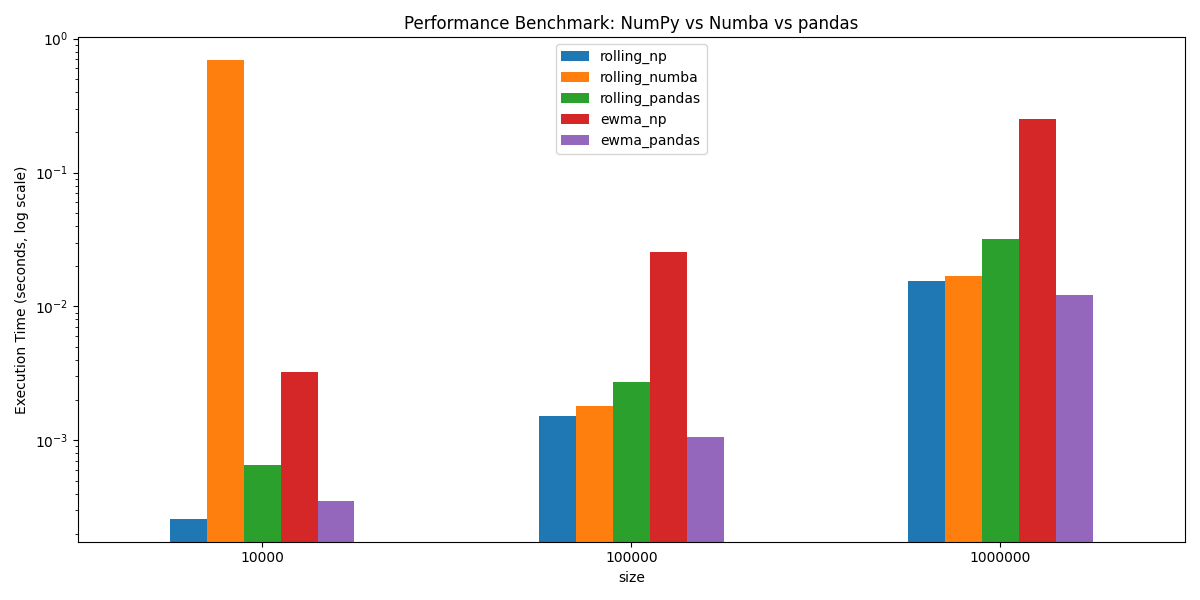
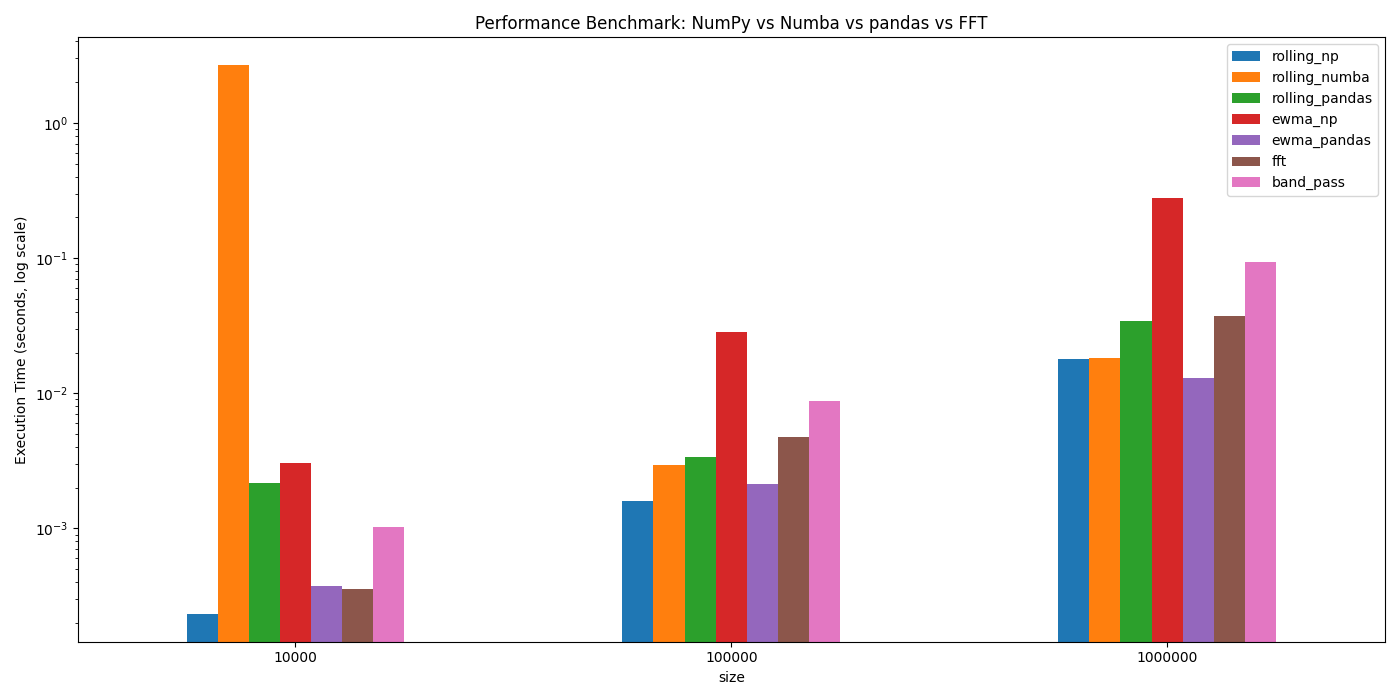
updated Task 3

diff --git a/Task3/benchmark.py b/Task3/benchmark.py
@@ -2,6 +2,7 @@ import time
 import numpy as np
 import pandas as pd
 import matplotlib.pyplot as plt
+
 from timeseries_utils import (
     rolling_mean_np, rolling_mean_numba, rolling_stats_pandas,
     ewma_np, ewma_pandas,
@@ -27,6 +28,9 @@ def run_benchmarks():
         data = generate_data(size)
         window = 50
         alpha = 0.1
+        fs = 100  # sampling frequency for fft, example value
+        low_freq = 0.1  # low cutoff frequency for bandpass filter
+        high_freq = 1.0  # high cutoff frequency for bandpass filter
 
         t_np, _ = benchmark_function(rolling_mean_np, data.values, window)
         t_numba, _ = benchmark_function(rolling_mean_numba, data.values, window)
@@ -35,22 +39,28 @@ def run_benchmarks():
         t_ewma_np, _ = benchmark_function(ewma_np, data.values, alpha)
         t_ewma_pd, _ = benchmark_function(ewma_pandas, data, alpha)
 
+        t_fft, _ = benchmark_function(fft_transform, data.values)
+        t_bandpass, _ = benchmark_function(band_pass_filter, data.values, low_freq, high_freq, fs)
+
         results.append({
             "size": size,
             "rolling_np": t_np,
             "rolling_numba": t_numba,
             "rolling_pandas": t_pd,
             "ewma_np": t_ewma_np,
-            "ewma_pandas": t_ewma_pd
+            "ewma_pandas": t_ewma_pd,
+            "fft": t_fft,
+            "band_pass": t_bandpass
         })
 
     return pd.DataFrame(results)
 
 def plot_results(df):
     df.set_index("size", inplace=True)
-    df.plot(kind="bar", figsize=(12, 6), logy=True, rot=0)
+    # Plot all except 'size'
+    df.plot(kind="bar", figsize=(14, 7), logy=True, rot=0)
     plt.ylabel("Execution Time (seconds, log scale)")
-    plt.title("Performance Benchmark: NumPy vs Numba vs pandas")
+    plt.title("Performance Benchmark: NumPy vs Numba vs pandas vs FFT")
     plt.tight_layout()
     plt.savefig("benchmark_results.png")
     plt.show()

diff --git a/Task3/timeseries_utils.py b/Task3/timeseries_utils.py
@@ -52,20 +52,37 @@ def ewm_cov_np(x, y, alpha):
     return cov
 
 def fft_transform(arr):
+    """
+    Compute the Fast Fourier Transform of the input 1D array.
+    Returns complex frequency coefficients.
+    """
     return np.fft.fft(arr)
 
 def band_pass_filter(arr, low, high, fs):
+    """
+    Apply band-pass filter using FFT.
+    Arguments:
+        arr: input signal (1D numpy array)
+        low: low cutoff frequency (Hz)
+        high: high cutoff frequency (Hz)
+        fs: sampling frequency (Hz)
+    Returns:
+        filtered signal (real part of inverse FFT)
+    """
+    n = len(arr)
     fft_data = np.fft.fft(arr)
-    freqs = np.fft.fftfreq(len(arr), d=1/fs)
+    freqs = np.fft.fftfreq(n, d=1/fs)
     mask = (np.abs(freqs) >= low) & (np.abs(freqs) <= high)
     fft_data[~mask] = 0
-    return np.fft.ifft(fft_data).real
+    filtered_signal = np.fft.ifft(fft_data)
+    return filtered_signal.real
 
 def auto_rolling_mean(arr_or_series, window):
     if isinstance(arr_or_series, pd.Series):
         size = len(arr_or_series)
     else:
         size = arr_or_series.size
+
     if size > 1_000_000:
         return rolling_mean_numba(arr_or_series.values if isinstance(arr_or_series, pd.Series) else arr_or_series, window)
     elif size > 100_000:
